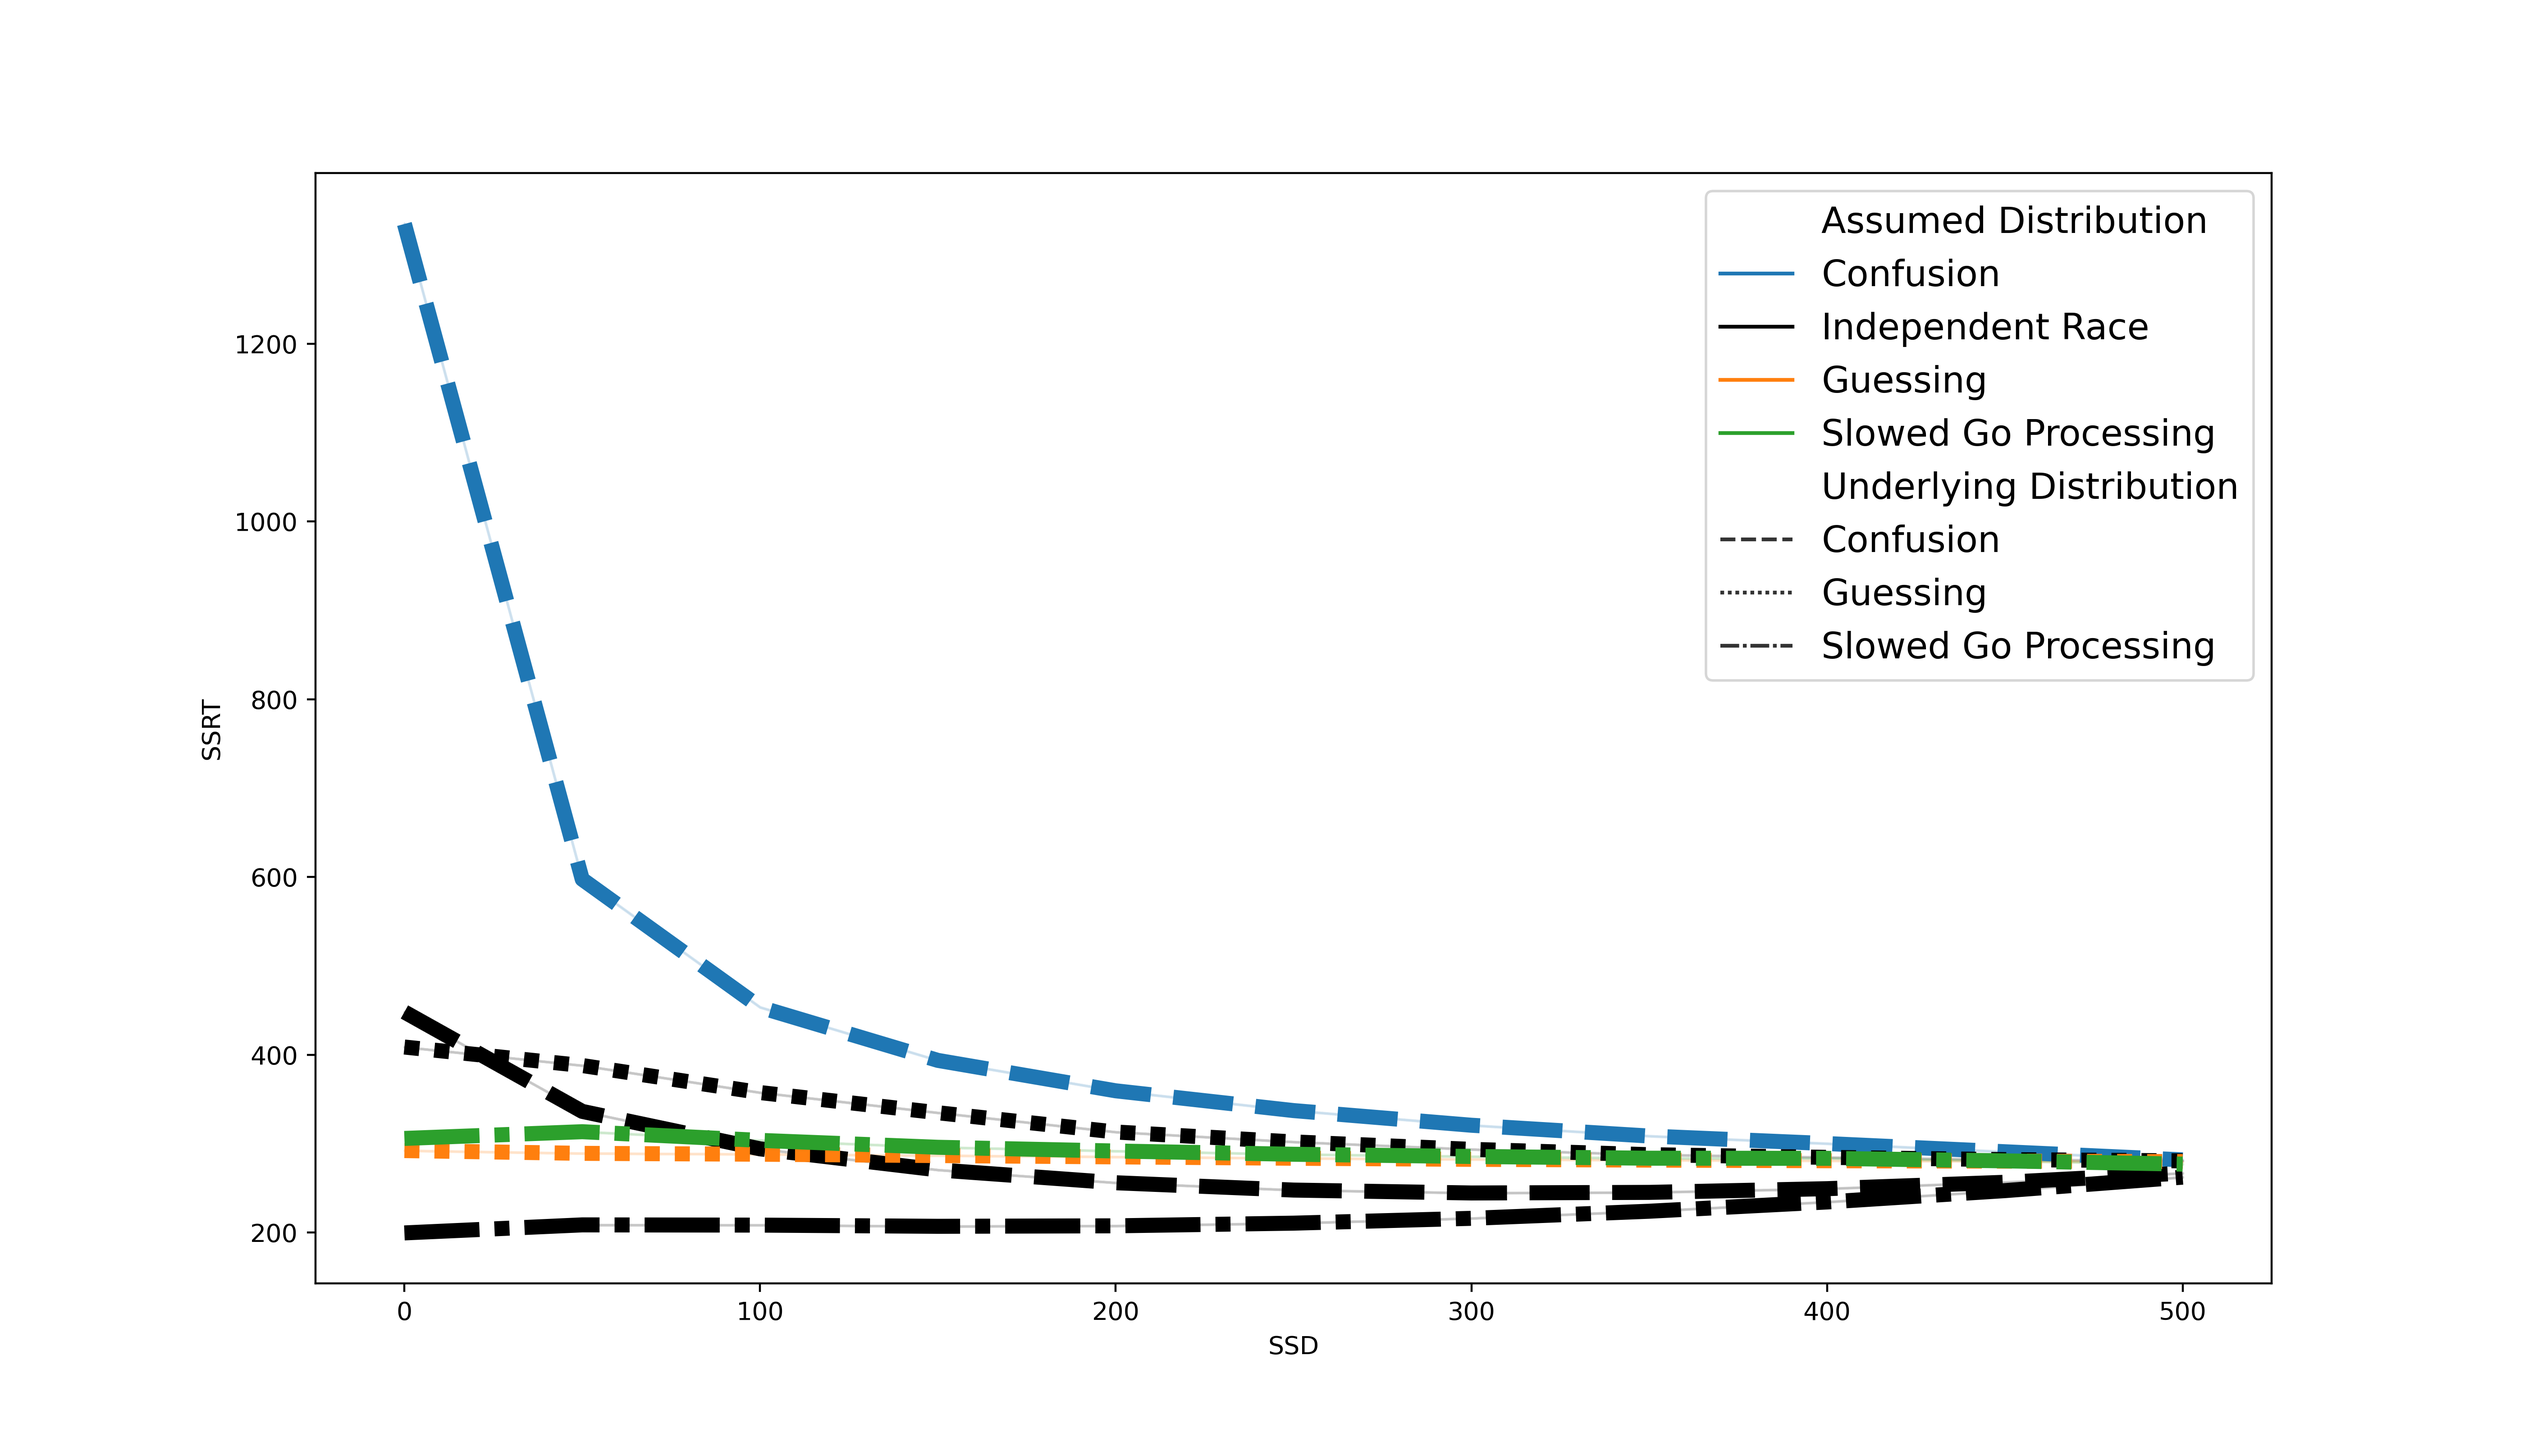
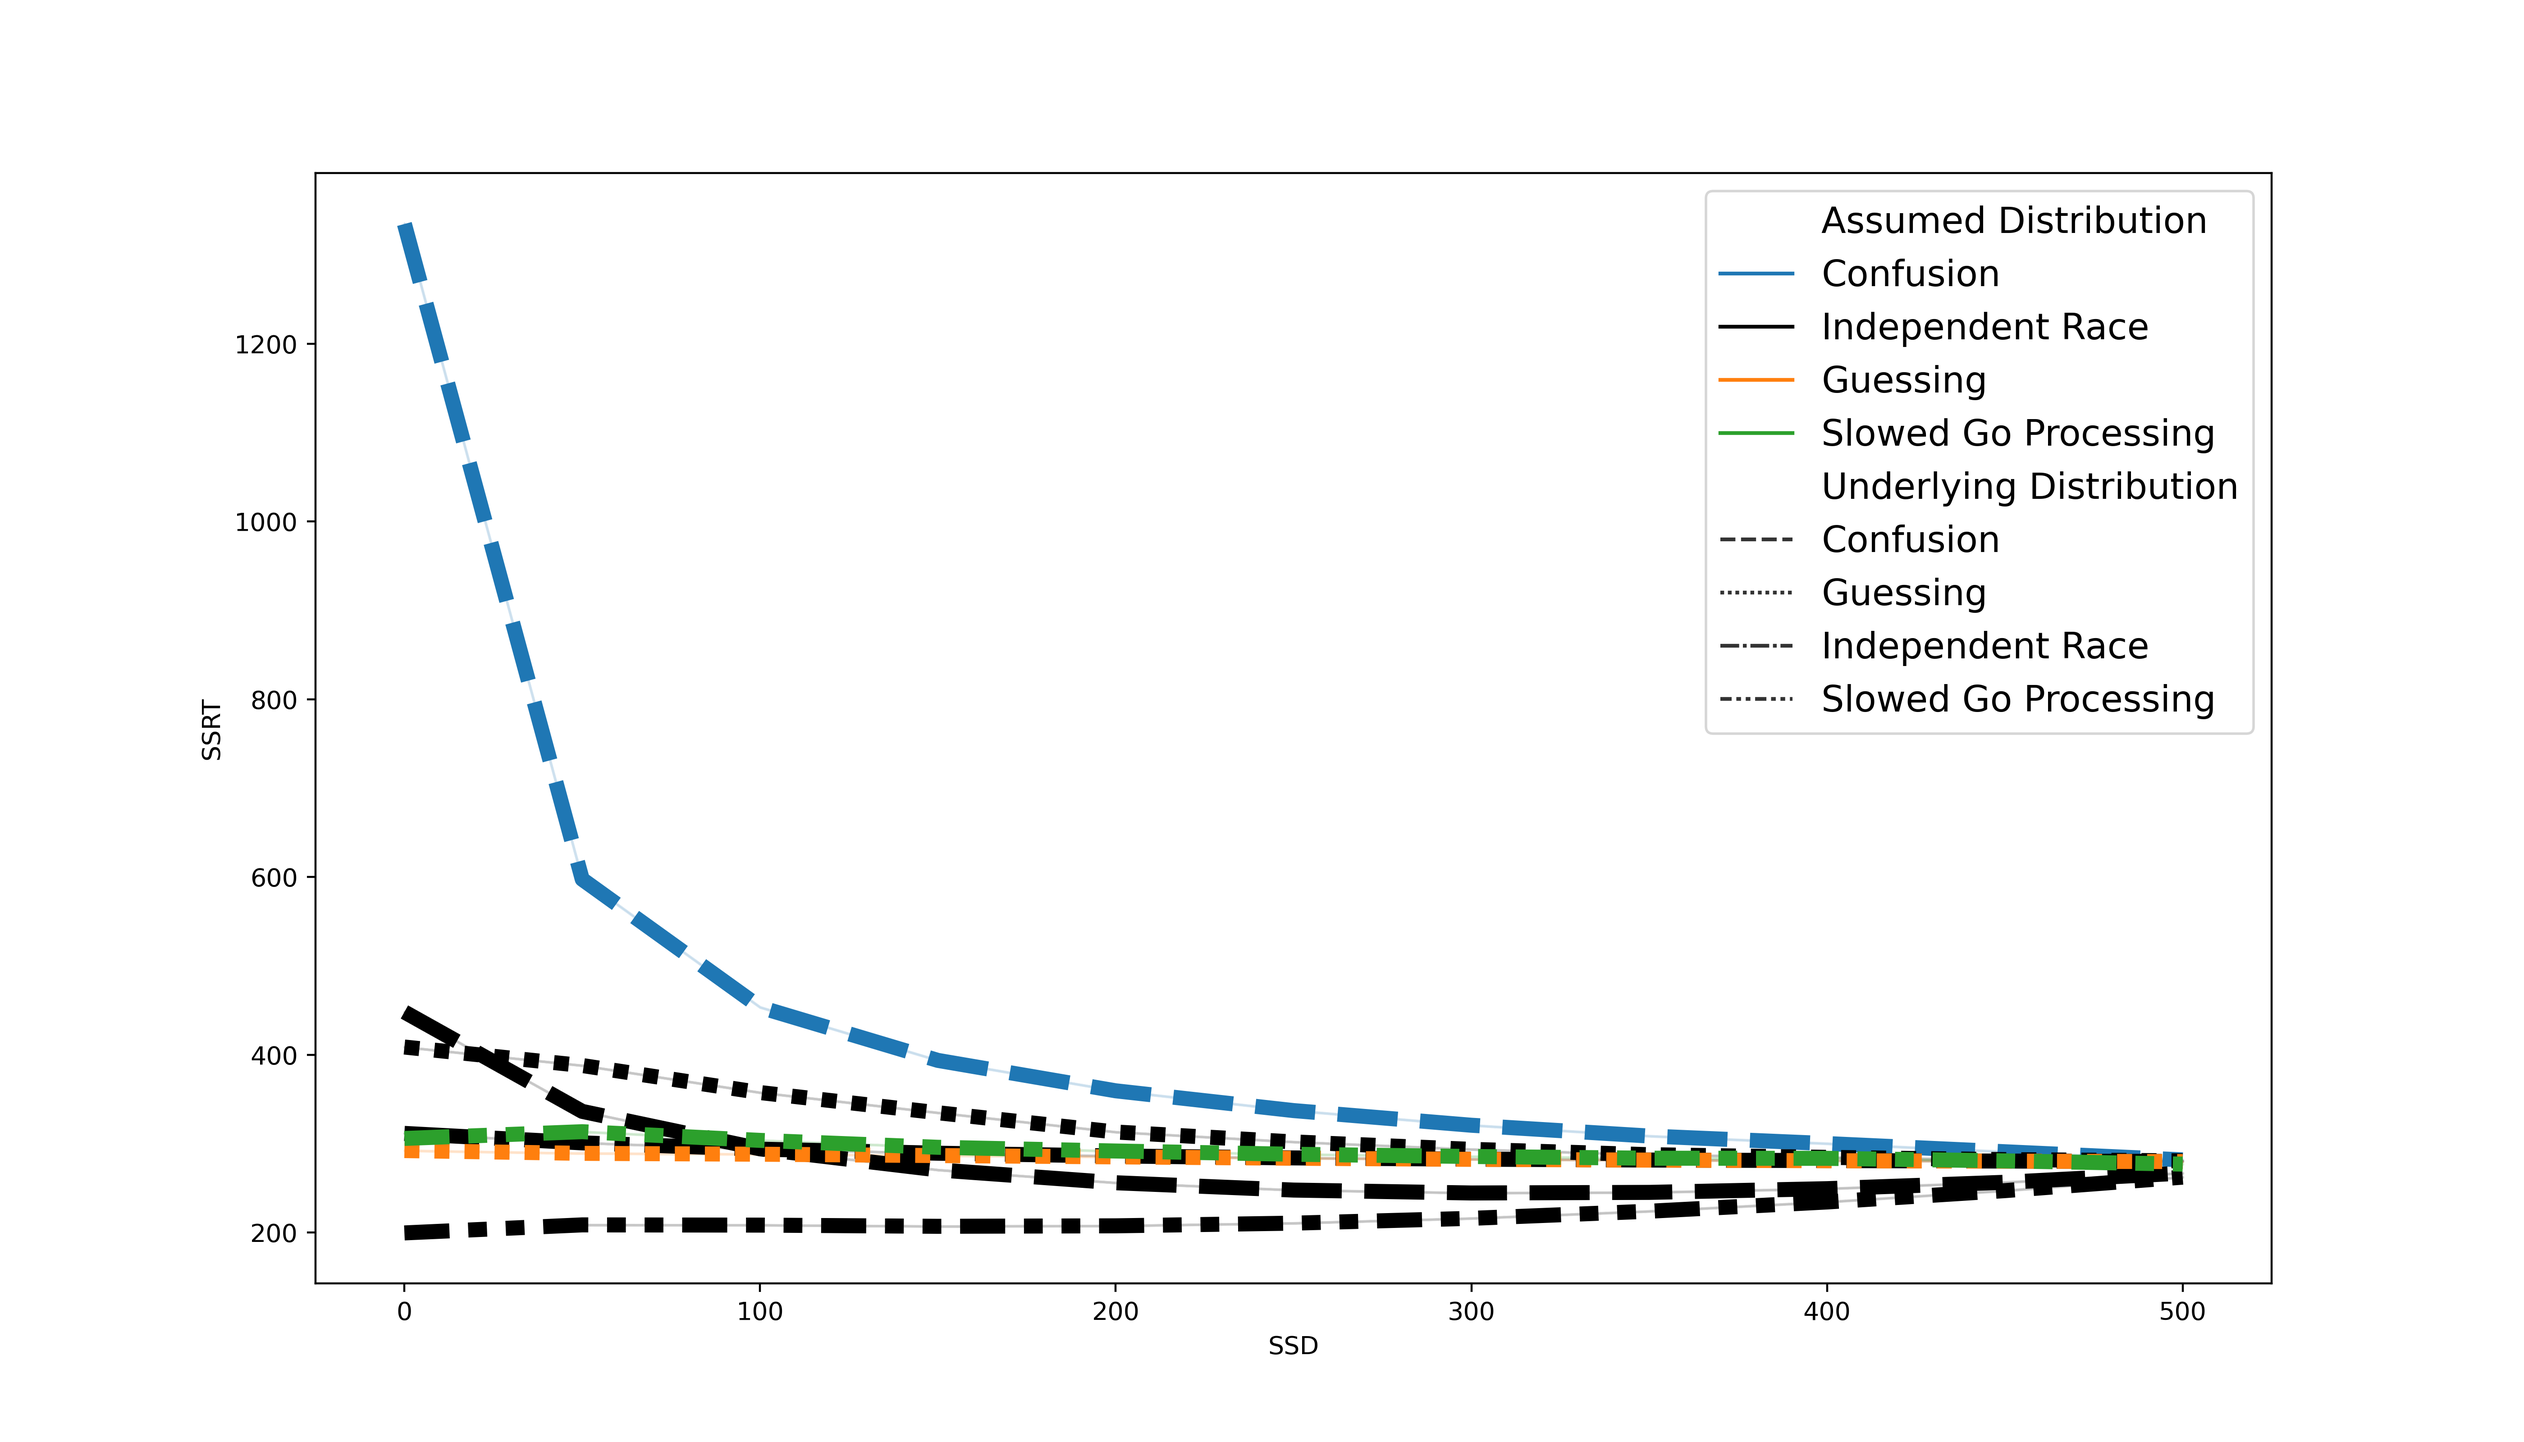
update figures without leaving out the ind. race

diff --git a/scripts/get_individual_results.py b/scripts/get_individual_results.py
@@ -112,7 +112,7 @@ if __name__ == '__main__':
     style_order = ['ABCD Data',
                    'Confusion',
                    'Guessing',
-                   '_'  # skip fourth line option, is too similar to 5
+                   '_',  # skip fourth line option, is too similar to 5
                    'Independent Race',
                    'Slowed Go Processing']
     style_order_hidden_abcd = [i if i != 'ABCD Data' else '_ABCD' for i in style_order]
